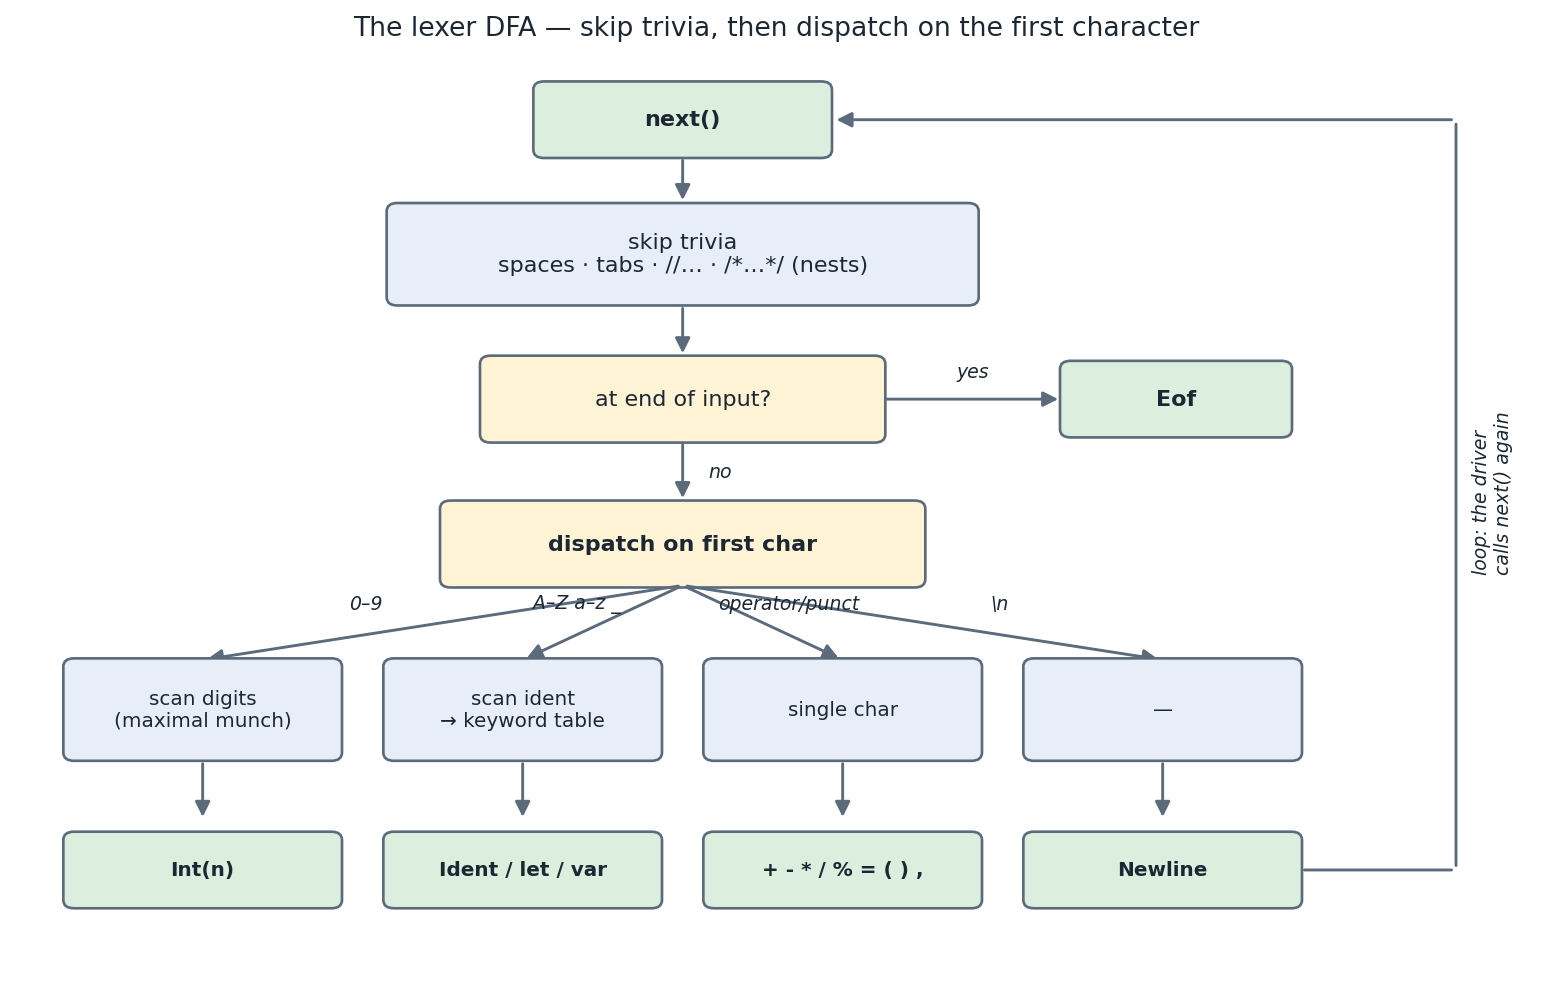
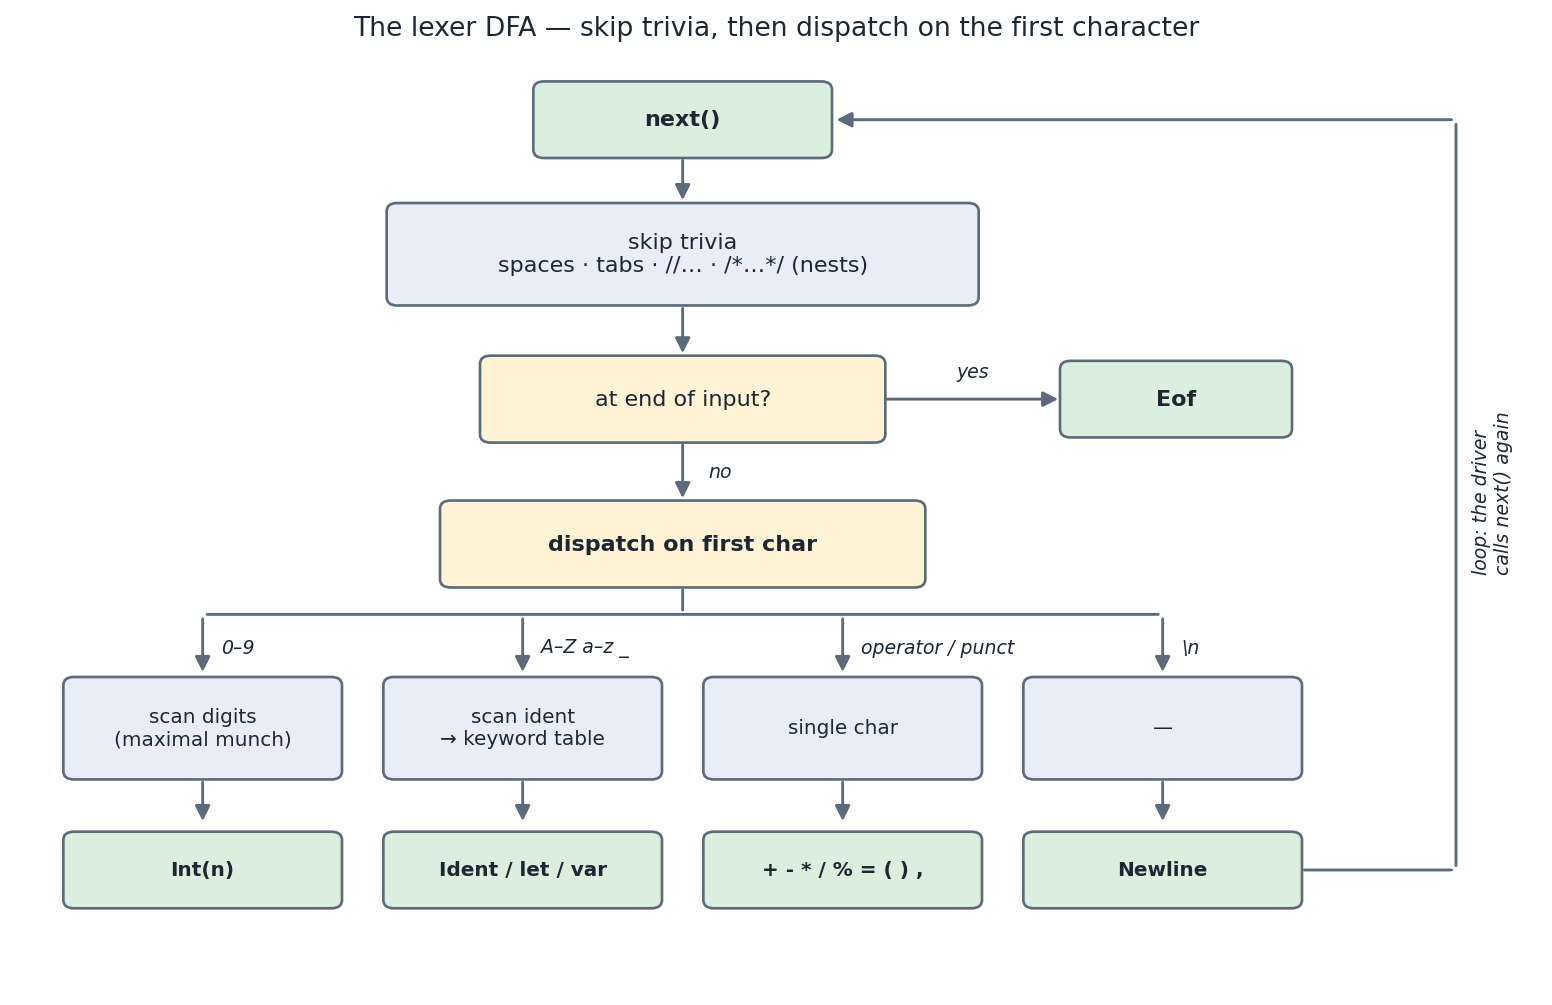
docs(01): the dispatch guards sat on the edges they label
The four branches fanned out as shallow diagonals, so each guard label
landed on a neighbouring edge — an arrow ran straight through
`A-Z a-z _`, and `operator/punct` was crossed too. No offset fixes that:
in a fan only 0.7 units deep, every label's own edge converges on it and
the neighbours pass through where it sits.

Route the branches as an elbow instead — a stub from the dispatch box, a
shared rail, then one vertical drop per branch — and put each guard beside
its own drop, which has the whole column to itself. Scan boxes moved down
slightly to keep the drops long enough to label.

Regenerated; explainer re-rendered.

Claude-Session: https://claude.ai/code/session_012HhuWctRnBFnsXUE9JbRuD

Changed region(s): [[0.0309, 0.5861, 0.8351, 0.802], [0.7423, 0.7403, 0.7732, 0.802], [0.6495, 0.7403, 0.6804, 0.7711]]

diff --git a/course/phase1-minimal/01-lexer/figs/make_figs.py b/course/phase1-minimal/01-lexer/figs/make_figs.py
@@ -110,7 +110,10 @@ def make_dfa():
     box(ax, 8.7, 5.7, 1.7, 0.7, "Eof", EMIT, bold=True)
     arrow(ax, (6.5, 5.7), (7.85, 5.7), "yes", ly=0.26)
 
-    # dispatch fan-out: four branches down to scan steps, then to emitted tokens
+    # dispatch fan-out: four branches down to scan steps, then to emitted tokens.
+    # Routed as an elbow (stub -> shared rail -> one vertical drop per branch) rather
+    # than as diagonals: a guard label beside a vertical drop has the whole column to
+    # itself, where on a shallow diagonal fan it lands on top of a neighbouring edge.
     branches = [
         # x,   scan label,                       token label
         (1.4, "scan digits\n(maximal munch)", "Int(n)"),
@@ -118,12 +121,25 @@ def make_dfa():
         (6.2, "single char", "+ - * / % = ( ) ,"),
         (8.6, "—", "Newline"),
     ]
-    guards = ["0–9", "A–Z a–z _", "operator/punct", "\\n"]
+    guards = ["0–9", "A–Z a–z _", "operator / punct", "\\n"]
+    rail = 3.62
+    line(ax, (5, 3.90), (5, rail))
+    line(ax, (branches[0][0], rail), (branches[-1][0], rail))
     for (x, scan, tok), guard in zip(branches, guards):
-        # from dispatch box bottom to each scan node
-        arrow(ax, (5, 3.90), (x, 3.18), guard, rad=0.0, lx=(x - 5) * 0.16, ly=0.18)
-        box(ax, x, 2.7, 2.05, 0.95, scan, TRIVIA, fontsize=9)
-        arrow(ax, (x, 2.22), (x, 1.62))
+        arrow(ax, (x, rail), (x, 3.02))
+        ax.text(
+            x + 0.14,
+            3.30,
+            guard,
+            ha="left",
+            va="center",
+            fontsize=8.5,
+            color=TEXT,
+            fontstyle="italic",
+            zorder=6,
+        )
+        box(ax, x, 2.52, 2.05, 0.95, scan, TRIVIA, fontsize=9)
+        arrow(ax, (x, 2.04), (x, 1.58))
         box(ax, x, 1.15, 2.05, 0.7, tok, EMIT, fontsize=9, bold=True)
 
     # loop-back: emitted token -> next() (driver calls next again), routed up the
